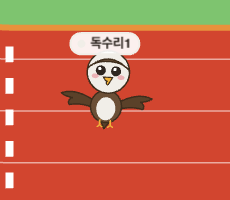
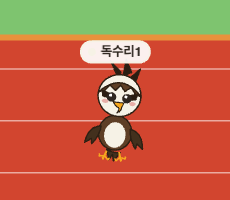
Add speed/power stats + team-monkey tuning + guide stats
Per-animal speed/power (fair-lottery flavor — net win rates stay even):
- New CharacterData speed/power (1-5, inverse-correlated; engine/stats.ts).
- speed → small baseSpeed bias (early surge, reined by catch-up).
- power → resistance: less block-decel, weaker incoming stun/slow/pushback
  (banana/bristle/divebomb/icefield). "lane is speed-neutral" invariant kept.
- Win rates stay within ±5%p across the 7 chars; engine-bias gates green.

Team-mode monkey:
- banana hitStun 1350→1200 (monkey team dominance 0.16→0.15).
- Added a brief post-hit banana immunity window (anti chain-stun safety).
  (Note: relay monkey lead is a separate, still-open issue — not chain-stacking.)
- bear roar slightly softened to narrow the team-mode spread.

Character guide:
- Show speed/power per character (dot bars + summary table).
- Added the missing hedgehog entry; corrected stale eagle prose (dive→headbutt).
- New docs/img/hedgehog.png; refreshed docs/img/eagle.png (grounded raptor).

typecheck clean, vitest 44/44.

Changed region(s): [[0.0, 0.12, 1.0, 0.96], [0.0, 0.39, 0.0609, 0.48]]

diff --git a/src/engine/stats.ts b/src/engine/stats.ts
@@ -1,0 +1,73 @@
+/**
+ * Per-character speed/power stats wired into the sim (spec: fair-flavor A-plan).
+ *
+ * Stats are an integer 1..5 scale, median 3, with each character's speed+power ≈ 6
+ * (so they trade off). We map a stat to a small signed deviation d = (stat-3)/2 in
+ * [-1, +1] and apply *small* deltas — the catch-up term + cooldown gates keep win
+ * rates fair, so this is flavor, not a power ladder.
+ *
+ *   speed → a small baseSpeed bias (fast animals surge early; catch-up reins it).
+ *   power → resistance to incoming negative effects (slow / pushback / stun length)
+ *           and less deceleration when boxed in (shoulders through traffic).
+ *
+ * Stats are optional; a missing stat reads as the neutral median (3 → d = 0 → no
+ * effect), so characters without stats behave exactly as before (back-compat).
+ *
+ * Pure: no DOM/RNG. Lane is never touched here — power is a contact stat, not a
+ * lane stat (the "lane never affects speed" invariant stands).
+ */
+
+/** Neutral stat → no bias/resistance. */
+const NEUTRAL = 3;
+
+/** Signed deviation of a 1..5 stat from the median, in [-1, +1]. */
+export function statDev(stat: number | undefined): number {
+  return ((stat ?? NEUTRAL) - NEUTRAL) / 2;
+}
+
+/** Tuning coefficients — kept small so the fairness gates still hold. */
+export const STATS = {
+  /**
+   * baseSpeed bias at full speed deviation. The fair jitter band is 0.2 wide
+   * (1.3..1.5); this is kept to a *fraction* of that (≈±0.018 = under 10% of the
+   * band) so a fast animal surges early but the catch-up term reins it — flavor,
+   * not a ladder. Larger values (e.g. 0.05) break the fairness floor.
+   */
+  speedGain: 0.018,
+  /** Fraction by which a full power deviation scales an incoming effect's magnitude. */
+  powerResist: 0.15,
+  /** Fraction by which a full power deviation eases block deceleration toward 1. */
+  powerBlockEase: 0.2,
+} as const;
+
+/**
+ * Multiplier (~1) for an incoming negative effect's *magnitude* given the target's
+ * power. High power → < 1 (effect weakened); low power → > 1 (effect amplified).
+ * Used for slow strength, pushback distance, and stun duration.
+ */
+export function powerEffectScale(power: number | undefined): number {
+  return 1 - STATS.powerResist * statDev(power);
+}
+
+/**
+ * Block-deceleration multiplier for a boxed-in racer, eased toward 1 by power.
+ * `base` is OVERTAKE.blockDecel. High power decelerates less in traffic.
+ */
+export function powerBlockDecel(base: number, power: number | undefined): number {
+  const eased = base + (1 - base) * STATS.powerBlockEase * statDev(power);
+  return eased;
+}
+
+/** baseSpeed bias (engine units) from the speed stat. */
+export function speedBias(speed: number | undefined): number {
+  return STATS.speedGain * statDev(speed);
+}
+
+/**
+ * Ease a sub-1 slow multiplier toward 1 (less slow) for high-power racers. Used
+ * at the speed-application sites for slowMul (bristle/lightning/fart) and ice
+ * slowFactor. `mul` in (0,1]; high power → closer to 1, low power → slightly lower.
+ */
+export function powerEaseSlow(mul: number, power: number | undefined): number {
+  return mul + (1 - mul) * STATS.powerResist * statDev(power);
+}

diff --git a/src/engine/RaceEngine.ts b/src/engine/RaceEngine.ts
@@ -6,6 +6,7 @@
 
 import { createRng, type Rng } from './prng.ts';
 import { applyOvertake } from './overtake.ts';
+import { speedBias, powerEaseSlow } from './stats.ts';
 import {
   DT_MS,
   FINISH_OFFSET_FRAC,
@@ -172,7 +173,9 @@ export function createRaceEngine(
   const internal: Internals = {
     racers: config.participants.map((p, i, arr) => {
       const r = rng.fork(`base:${p.id}`);
-      const baseSpeed = r.range(1.3, 1.5); // engine units/frame; tight band keeps it fair
+      const stats = config.characters[p.characterId];
+      // Small speed-stat bias on top of the fair jitter band (catch-up reins it).
+      const baseSpeed = r.range(1.3, 1.5) + speedBias(stats?.speed);
       // Personal cruising lane, spread across the track + a little jitter. The
       // spread is inside-weighted (exponent > 1) so more racers home toward the
       // inner lanes — purely a positional skew; lane never affects speed.
@@ -192,6 +195,7 @@ export function createRaceEngine(
         homeLane,
         speed: 0,
         baseSpeed,
+        power: stats?.power,
         leg,
         phase,
         facing: 0,
@@ -347,7 +351,10 @@ export function createRaceEngine(
     applyOvertake(self, internal.racers, internal.racerRng.get(self.id)!, frame);
 
     applyIce(self);
-    if ((self.skill.slowUntil ?? 0) > frame) self.speed *= Number(self.skill.slowMul ?? 1);
+    // slowMul (bristle / lightning / fart) — eased toward 1 by the racer's power.
+    if ((self.skill.slowUntil ?? 0) > frame) {
+      self.speed *= powerEaseSlow(Number(self.skill.slowMul ?? 1), self.power);
+    }
 
     self.progress += self.speed;
 
@@ -461,10 +468,11 @@ export function createRaceEngine(
           .bool(Number(config.characters.cat.skill.params.dodgeChance ?? 0));
       }
       if (self.skill.iceJumping) return; // jumped clear — no slow
-      self.speed *= zone.slowFactor;
+      self.speed *= powerEaseSlow(zone.slowFactor, self.power);
       return;
     }
-    self.speed *= self.characterId === 'penguin' ? zone.boostFactor : zone.slowFactor;
+    self.speed *=
+      self.characterId === 'penguin' ? zone.boostFactor : powerEaseSlow(zone.slowFactor, self.power);
   }
 
   /** A gamble box, on pickup, rolls one of four effects (weighted). */

diff --git a/src/engine/skills/banana.ts b/src/engine/skills/banana.ts
@@ -1,5 +1,6 @@
 import type { SkillHandler } from './types.ts';
 import { DT_MS } from '../types.ts';
+import { powerEffectScale } from '../stats.ts';
 
 /**
  * 원숭이 바나나 던지기 (spec §2.1): targets the nearest racer in front or behind
@@ -8,6 +9,11 @@ import { DT_MS } from '../types.ts';
  * visible whiffed-throw gag. A catwalk cat in its dodge window may also avoid it
  * with its own probability (ctx.tryDodge) → dodge gag. Disruptive → never hits a
  * teammate.
+ *
+ * Anti-stack: a banana hit grants the target brief immunity to *further bananas*
+ * (`bananaImmuneUntil` = end of stun + `immuneMs`). This stops a relay team from
+ * chain-stunning one victim leg after leg (the monkey runaway); individual mode is
+ * barely affected since a lone monkey rarely re-targets the same racer that fast.
  */
 export const bananaHandler: SkillHandler = (ctx) => {
   const { self, all, rng, params, frame } = ctx;
@@ -21,6 +27,7 @@ export const bananaHandler: SkillHandler = (ctx) => {
         r.phase !== 'finished' &&
         r.phase !== 'waiting' &&
         r.phase !== 'stunned' &&
+        frame >= (r.skill.bananaImmuneUntil ?? 0) && // still immune from a recent banana
         (self.teamId === undefined || r.teamId !== self.teamId) &&
         (dir === 1 ? r.progress > self.progress : r.progress < self.progress),
     )
@@ -47,10 +54,15 @@ export const bananaHandler: SkillHandler = (ctx) => {
     return;
   }
 
-  const stunFrames = Math.round(Number(params.hitStunMs) / DT_MS);
+  // High-power targets shrug off some of the freeze (resistance).
+  const stunFrames = Math.round((Number(params.hitStunMs) / DT_MS) * powerEffectScale(target.power));
   target.phase = 'stunned';
   target.speed = 0;
   target.skill.burst = 0;
   target.skill.effectUntil = frame + stunFrames;
+  // Anti-stack immunity: no further banana until the stun lifts + a short buffer,
+  // so a teammate can't re-stun the same victim the instant it recovers.
+  const immuneFrames = Math.round(Number(params.immuneMs ?? 900) / DT_MS);
+  target.skill.bananaImmuneUntil = frame + stunFrames + immuneFrames;
   ctx.emit({ variant: 'hit', targetId: target.id });
 };

diff --git a/tests/unit/schema.test.ts b/tests/unit/schema.test.ts
@@ -16,6 +16,20 @@ describe('character catalog schema', () => {
     }
   });
 
+  it('every character has inverse speed/power flavor stats (1–5 ints, sum ≈ 6)', () => {
+    for (const [id, c] of Object.entries(characterCatalog)) {
+      expect(c.speed, `${id}.speed`).toBeDefined();
+      expect(c.power, `${id}.power`).toBeDefined();
+      for (const v of [c.speed!, c.power!]) {
+        expect(Number.isInteger(v)).toBe(true);
+        expect(v).toBeGreaterThanOrEqual(1);
+        expect(v).toBeLessThanOrEqual(5);
+      }
+      // Inverse design: the two roughly trade off so no one is strong at both.
+      expect(Math.abs(c.speed! + c.power! - 6)).toBeLessThanOrEqual(1);
+    }
+  });
+
   it('ships the active characters', () => {
     expect(Object.keys(characterCatalog).sort()).toEqual(['bear', 'cat', 'dog', 'eagle', 'hedgehog', 'monkey', 'penguin']);
   });

diff --git a/src/engine/types.ts b/src/engine/types.ts
@@ -77,6 +77,12 @@ export interface SkillRuntime {
   /** ⚡/💨 item slow: speed is multiplied by `slowMul` until `slowUntil`. */
   slowUntil?: number;
   slowMul?: number;
+  /**
+   * banana anti-stack: frame index until which this racer is immune to *further*
+   * banana hits (set to end-of-stun + a buffer on a banana hit). Stops relay teams
+   * from chain-stunning one victim leg after leg.
+   */
+  bananaImmuneUntil?: number;
   /** catwalk: the cat is currently hopping clear over an ice zone (renderer cue). */
   iceJumping?: boolean;
   /** id of the ice zone the cat last decided on (one jump roll per zone entry). */
@@ -99,6 +105,12 @@ export interface RacerState {
   speed: number;
   /** Intrinsic cruise speed (jittered per racer, unbiased in expectation). */
   baseSpeed: number;
+  /**
+   * Contact/resistance stat (1..5, median 3) copied from CharacterData at init.
+   * Read at effect time to resist incoming slow/pushback/stun and ease block
+   * deceleration (see engine/stats.ts). Undefined → neutral (no effect).
+   */
+  power?: number;
   /**
    * Relay-only: this racer's leg index within its team (0-based, participation
    * order; anchor = last). The renderer reads this on the team's active

diff --git a/src/data/schema.ts b/src/data/schema.ts
@@ -49,6 +49,16 @@ export interface CharacterData {
   runStyle: string;
   /** Per-character render size multiplier (default 1). */
   renderScale?: number;
+  /**
+   * Flavor stats on a 1–5 integer scale, midpoint 3 = neutral. Per character
+   * `speed + power ≈ 6` (inverse): speed biases cruise/early pace, power resists
+   * disruption + traffic (shorter slow/pushback/stun, less block slowdown). The
+   * engine reads these (default 3 if omitted) and applies small deltas only —
+   * win rates stay fair (engine-bias gate + balance-tuner). A fast animal is the
+   * easier to block/shove (low power), which naturally offsets its head start.
+   */
+  speed?: number;
+  power?: number;
   skill: SkillSpec;
   lines: CharacterLines;
 }

diff --git a/src/engine/overtake.ts b/src/engine/overtake.ts
@@ -13,6 +13,7 @@
 
 import type { Rng } from './prng.ts';
 import type { RacerState } from './types.ts';
+import { powerBlockDecel } from './stats.ts';
 
 export const OVERTAKE = {
   /** Forward proximity window that counts as "blocked by" / "occupied". */
@@ -86,8 +87,10 @@ export function applyOvertake(self: RacerState, all: RacerState[], rng: Rng, fra
       self.facing = side;
       self.weaveSide = side;
     } else {
-      // Boxed in — decelerate behind the blocker. Drop any stale commitment.
-      self.speed = Math.min(self.speed, blocker.speed) * OVERTAKE.blockDecel;
+      // Boxed in — decelerate behind the blocker (high power shoulders through →
+      // less deceleration). Drop any stale commitment.
+      const decel = powerBlockDecel(OVERTAKE.blockDecel, self.power);
+      self.speed = Math.min(self.speed, blocker.speed) * decel;
       self.phase = 'blocked';
       self.facing = 0;
       self.weaveSide = 0;

diff --git a/src/engine/skills/bristle.ts b/src/engine/skills/bristle.ts
@@ -1,5 +1,6 @@
 import type { SkillHandler } from './types.ts';
 import { DT_MS } from '../types.ts';
+import { powerEffectScale } from '../stats.ts';
 
 /**
  * 고슴도치 가시 밀치기 (bristle): a reactive counter-shove. The hedgehog flares its
@@ -71,8 +72,10 @@ export const bristleHandler: SkillHandler = (ctx) => {
     return;
   }
 
-  // Shove the chaser back + briefly slow it.
-  target.progress = Math.max(0, target.progress - Number(params.pushBack));
+  // Shove the chaser back + briefly slow it. High-power chasers resist the shove
+  // distance here; the slow's *magnitude* is eased by power centrally at the
+  // speed-application site (RaceEngine), so all slowMul effects resist uniformly.
+  target.progress = Math.max(0, target.progress - Number(params.pushBack) * powerEffectScale(target.power));
   const slowFrames = Math.round(Number(params.slowMs) / DT_MS);
   target.skill.slowUntil = frame + slowFrames;
   target.skill.slowMul = Number(params.slowMul);

diff --git a/src/data/characters/monkey.ts b/src/data/characters/monkey.ts
@@ -16,11 +16,15 @@ export const monkey: CharacterData = {
   },
   runStyle: 'scamper',
   renderScale: 0.82,
+  // Prankster all-rounder: balanced cruise and toughness.
+  speed: 3,
+  power: 3,
   skill: {
     type: 'banana',
     cooldownMs: [2100, 3800],
     // Targets front or back neighbour by progress; hitStun freezes them; dodgeChance misses.
-    params: { target: 'front', hitStunMs: 1350, dodgeChance: 0.06, range: 0.32 },
+    // immuneMs: anti-stack window after the stun lifts (blocks relay chain-stuns).
+    params: { target: 'front', hitStunMs: 1200, dodgeChance: 0.06, range: 0.32, immuneMs: 900 },
   },
   lines: { skill: '받아라! (까득)', win: '우끼끼!', lose: '끼…', dodge: '어… 빗나갔네' },
 };

diff --git a/src/data/characters/bear.ts b/src/data/characters/bear.ts
@@ -16,11 +16,14 @@ export const bear: CharacterData = {
   },
   runStyle: 'biped',
   renderScale: 1.15,
+  // Tank: slowest cruise, but immovable — shrugs off disruption and traffic.
+  speed: 1,
+  power: 5,
   skill: {
     type: 'roar',
     // Roar that staggers every racer within range for staggerMs.
     cooldownMs: [3500, 6000],
-    params: { range: 18, staggerMs: 340 },
+    params: { range: 16, staggerMs: 320 },
   },
   lines: { skill: '크아앙!!', win: '으르렁!', lose: '끄응…' },
 };

diff --git a/src/engine/skills/divebomb.ts b/src/engine/skills/divebomb.ts
@@ -1,5 +1,6 @@
 import type { SkillHandler } from './types.ts';
 import { DT_MS } from '../types.ts';
+import { powerEffectScale } from '../stats.ts';
 
 /**
  * 독수리 박치기 (도박 박치기, type 이름은 'divebomb' 유지): the eagle hops up and
@@ -66,7 +67,8 @@ export const divebombHandler: SkillHandler = (ctx) => {
   victim.phase = 'stunned';
   victim.speed = 0;
   victim.skill.burst = 0;
-  victim.skill.effectUntil = frame + stunFrames;
+  // High-power victims shrug off some of the stun (resistance).
+  victim.skill.effectUntil = frame + Math.round(stunFrames * powerEffectScale(victim.power));
 
   if (success) {
     // Hop momentum: a short forward burst (in 'straying', blockable) — the

diff --git a/src/data/characters/cat.ts b/src/data/characters/cat.ts
@@ -17,6 +17,9 @@ export const cat: CharacterData = {
   },
   runStyle: 'gallop',
   renderScale: 0.88,
+  // Nimble dodger: quick and slippery, a little sturdier than the dog.
+  speed: 4,
+  power: 2,
   skill: {
     type: 'catwalk',
     cooldownMs: [3000, 5000],